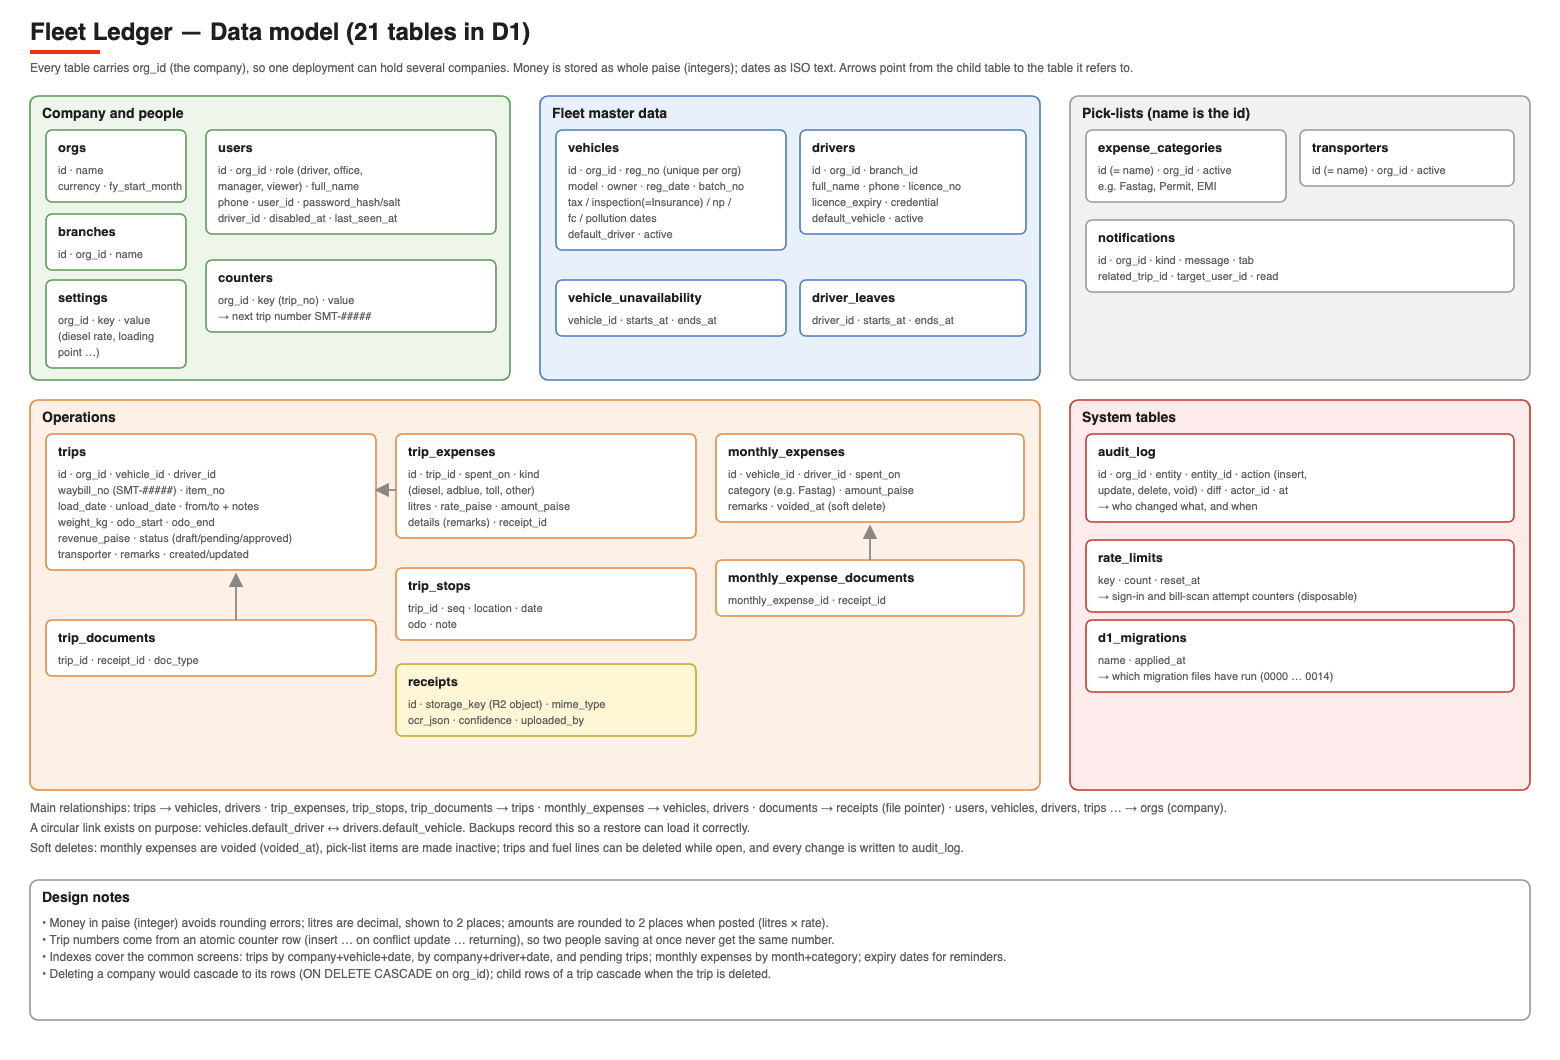
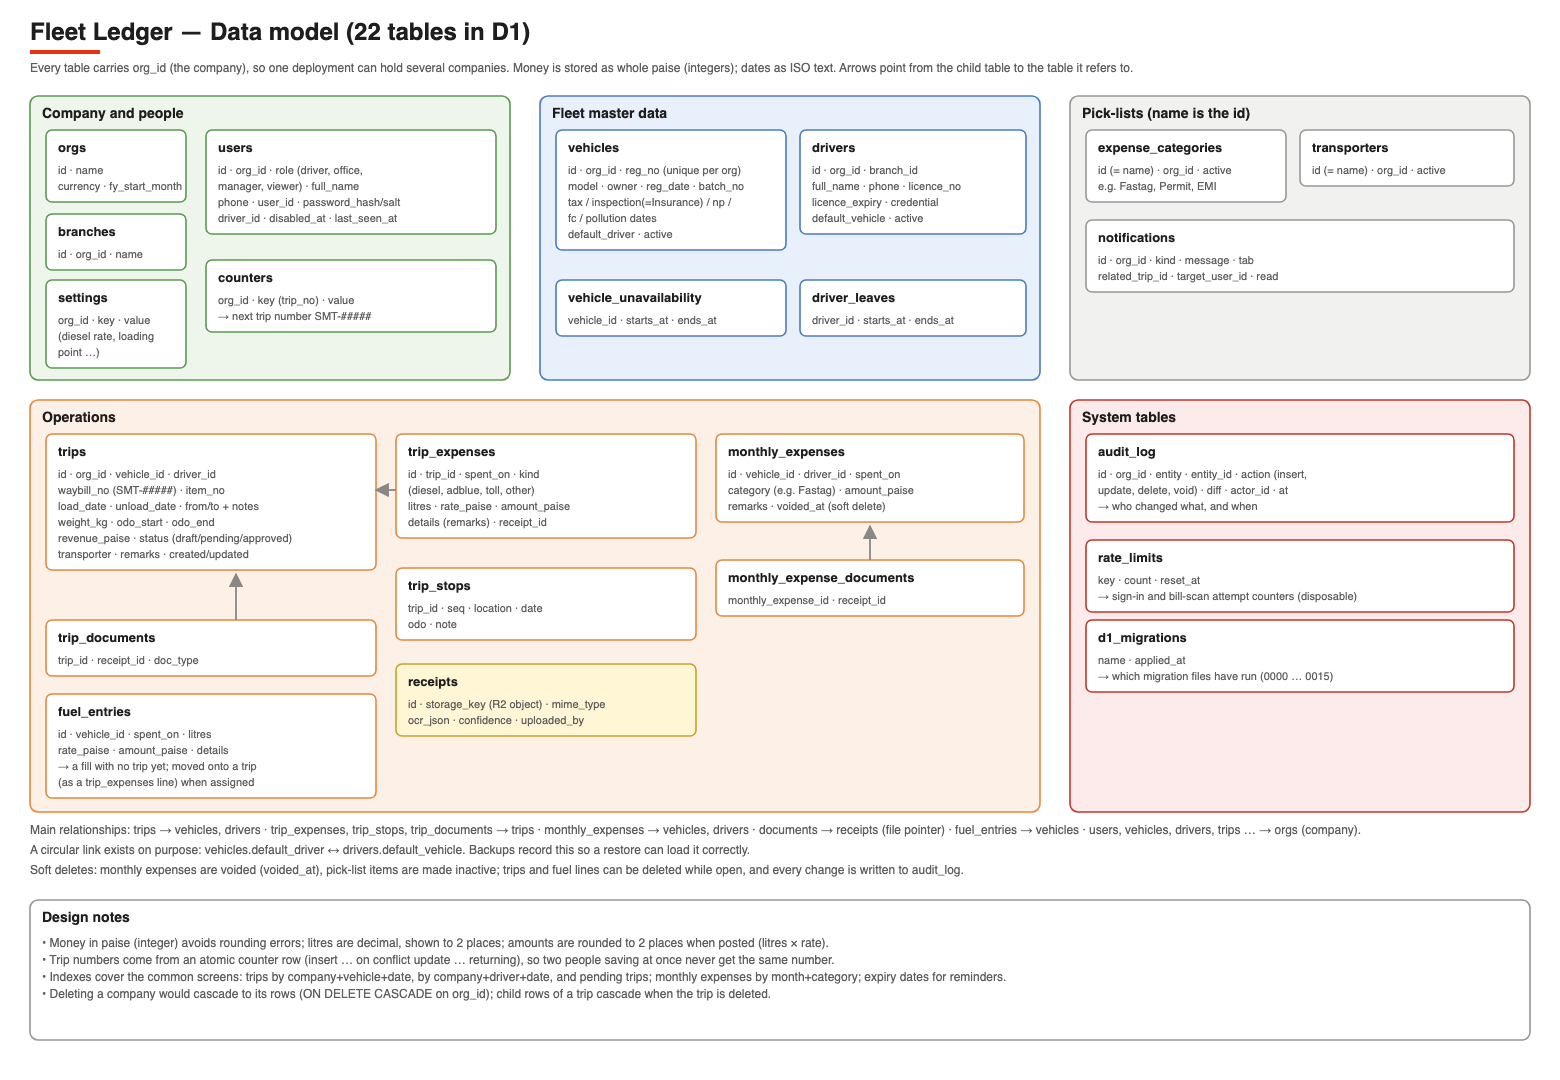
docs: diagrams — add fuel_entries (22 tables), migrations to 0015

Changed region(s): [[0.0, 0.0311, 0.9846, 0.934]]

diff --git a/docs/architecture/build_diagrams.py b/docs/architecture/build_diagrams.py
@@ -73,7 +73,7 @@ s.box(772, 176, 456, 96, F_SEC, S_SEC, 'Middleware (every request)', ['CORS allo
 s.box(772, 284, 456, 150, F_GR, S_GR, 'Routes  /v1/…', ['!auth · trips · monthly-expenses · vehicles · drivers', '!users · settings · transporters · expense-categories', '!driver-leaves · vehicle-unavailability', '!notifications · receipts (bill scan) · admin (backups)', 'org_id always taken from the token, never the request'], 13, 12, 6)
 s.box(772, 446, 220, 112, F_GR, S_GR, 'Libraries', ['!password (PBKDF2) · jwt', '!rate limiter (D1)', '!file checks (magic bytes)', '!audit log · backup job'], 13, 12, 6)
 s.box(1008, 446, 220, 112, F_SEC, S_SEC, 'Scheduled job (cron)', ['!21:00 UTC = 02:30 IST', 'Nightly backup, 30 nights', 'Cleans expired rate limits'], 13, 12, 6)
-s.box(756, 604, 236, 176, F_DB, S_DB, 'D1 database (SQLite)', ['!fleet-ledger-db · 21 tables', 'Trips, expenses, vehicles,', 'drivers, users, settings,', 'audit log, rate limits …', 'Time Travel: 7 / 30 days', 'Versioned migrations'], 13, 12, 6)
+s.box(756, 604, 236, 176, F_DB, S_DB, 'D1 database (SQLite)', ['!fleet-ledger-db · 22 tables', 'Trips, expenses, vehicles,', 'drivers, users, settings,', 'audit log, rate limits …', 'Time Travel: 7 / 30 days', 'Versioned migrations'], 13, 12, 6)
 s.box(1008, 604, 236, 176, F_DB, S_DB, 'R2 bucket', ['!fleet-ledger-docs', 'Uploaded bills & photos', '(<org>/<trip>/<file>)', 'backups/<date>/ …', 'backups/files/ (copies)'], 13, 12, 6)
 s.box(756, 800, 488, 130, '#ffffff', S_CF, 'Worker configuration', ['!Bindings: DB (D1) · DOCS (R2)', '!Secrets: JWT_SECRET · GEMINI_API_KEY (never in code or backups)', '!Variable: ALLOWED_ORIGIN (the sites allowed to call the API)', 'Static site: the web app is also served by a Cloudflare Worker', '(fleetapp) behind the domain fleet.oneuptech.co'], 13, 12, 6)
 
@@ -139,7 +139,7 @@ for i, (r, ls) in enumerate(cols):
 s.save('02-request-pipeline-security.svg')
 
 # ───────────────────────── 3. Data model ─────────────────────────
-s = Svg(1560, 1060, 'Fleet Ledger — Data model (21 tables in D1)')
+s = Svg(1560, 1080, 'Fleet Ledger — Data model (22 tables in D1)')
 s.label(30, 72, 'Every table carries org_id (the company), so one deployment can hold several companies. Money is stored as whole paise (integers); dates as ISO text. Arrows point from the child table to the table it refers to.', 12)
 
 def tbl(x, y, w, name, cols, fill=F_GR, stroke=S_GR):
@@ -171,29 +171,30 @@ tbl(1300, 130, 214, 'transporters', ['id (= name) · org_id · active'], '#fff',
 tbl(1086, 220, 428, 'notifications', ['id · org_id · kind · message · tab', 'related_trip_id · target_user_id · read'], '#fff', S_GR)
 
 # operations
-s.box(30, 400, 1010, 390, F_CF, S_CF, 'Operations', [], 14)
+s.box(30, 400, 1010, 412, F_CF, S_CF, 'Operations', [], 14)
 tbl(46, 434, 330, 'trips', ['id · org_id · vehicle_id · driver_id', 'waybill_no (SMT-#####) · item_no', 'load_date · unload_date · from/to + notes', 'weight_kg · odo_start · odo_end', 'revenue_paise · status (draft/pending/approved)', 'transporter · remarks · created/updated'], '#fff', S_CF)
 tbl(396, 434, 300, 'trip_expenses', ['id · trip_id · spent_on · kind', '   (diesel, adblue, toll, other)', 'litres · rate_paise · amount_paise', 'details (remarks) · receipt_id'], '#fff', S_CF)
 tbl(396, 568, 300, 'trip_stops', ['trip_id · seq · location · date', 'odo · note'], '#fff', S_CF)
 tbl(716, 434, 308, 'monthly_expenses', ['id · vehicle_id · driver_id · spent_on', 'category (e.g. Fastag) · amount_paise', 'remarks · voided_at (soft delete)'], '#fff', S_CF)
 tbl(46, 620, 330, 'trip_documents', ['trip_id · receipt_id · doc_type'], '#fff', S_CF)
+tbl(46, 694, 330, 'fuel_entries', ['id · vehicle_id · spent_on · litres', 'rate_paise · amount_paise · details', '→ a fill with no trip yet; moved onto a trip', '   (as a trip_expenses line) when assigned'], '#fff', S_CF)
 tbl(716, 560, 308, 'monthly_expense_documents', ['monthly_expense_id · receipt_id'], '#fff', S_CF)
 tbl(396, 664, 300, 'receipts', ['id · storage_key (R2 object) · mime_type', 'ocr_json · confidence · uploaded_by'], F_DB, S_DB)
 
 # system
-s.box(1070, 400, 460, 390, F_SEC, S_SEC, 'System tables', [], 14)
+s.box(1070, 400, 460, 412, F_SEC, S_SEC, 'System tables', [], 14)
 tbl(1086, 434, 428, 'audit_log', ['id · org_id · entity · entity_id · action (insert,', '   update, delete, void) · diff · actor_id · at', '→ who changed what, and when'], '#fff', S_SEC)
 tbl(1086, 540, 428, 'rate_limits', ['key · count · reset_at', '→ sign-in and bill-scan attempt counters (disposable)'], '#fff', S_SEC)
-tbl(1086, 620, 428, 'd1_migrations', ['name · applied_at', '→ which migration files have run (0000 … 0014)'], '#fff', S_SEC)
+tbl(1086, 620, 428, 'd1_migrations', ['name · applied_at', '→ which migration files have run (0000 … 0015)'], '#fff', S_SEC)
 
 # relations (simplified): child -> parent
 s.arrow(396, 490, 376, 490, None)
 s.arrow(236, 620, 236, 574, None)
 s.arrow(870, 560, 870, 526, None)
-s.label(30, 812, 'Main relationships: trips → vehicles, drivers · trip_expenses, trip_stops, trip_documents → trips · monthly_expenses → vehicles, drivers · documents → receipts (file pointer) · users, vehicles, drivers, trips … → orgs (company).', 12)
-s.label(30, 832, 'A circular link exists on purpose: vehicles.default_driver ↔ drivers.default_vehicle. Backups record this so a restore can load it correctly.', 12)
-s.label(30, 852, 'Soft deletes: monthly expenses are voided (voided_at), pick-list items are made inactive; trips and fuel lines can be deleted while open, and every change is written to audit_log.', 12)
-s.box(30, 880, 1500, 140, '#ffffff', S_GR, 'Design notes', [
+s.label(30, 834, 'Main relationships: trips → vehicles, drivers · trip_expenses, trip_stops, trip_documents → trips · monthly_expenses → vehicles, drivers · documents → receipts (file pointer) · fuel_entries → vehicles · users, vehicles, drivers, trips … → orgs (company).', 12)
+s.label(30, 854, 'A circular link exists on purpose: vehicles.default_driver ↔ drivers.default_vehicle. Backups record this so a restore can load it correctly.', 12)
+s.label(30, 874, 'Soft deletes: monthly expenses are voided (voided_at), pick-list items are made inactive; trips and fuel lines can be deleted while open, and every change is written to audit_log.', 12)
+s.box(30, 900, 1500, 140, '#ffffff', S_GR, 'Design notes', [
  '• Money in paise (integer) avoids rounding errors; litres are decimal, shown to 2 places; amounts are rounded to 2 places when posted (litres × rate).',
  '• Trip numbers come from an atomic counter row (insert … on conflict update … returning), so two people saving at once never get the same number.',
  '• Indexes cover the common screens: trips by company+vehicle+date, by company+driver+date, and pending trips; monthly expenses by month+category; expiry dates for reminders.',

diff --git a/docs/architecture/README.md b/docs/architecture/README.md
@@ -17,4 +17,4 @@ CH="/Applications/Google Chrome.app/Contents/MacOS/Google Chrome"
 "$CH" --headless=new --disable-gpu --hide-scrollbars --window-size=1560,980 \
   --screenshot="$PWD/01-system-architecture.png" "file://$PWD/01-system-architecture.svg"
 ```
-(window sizes: 01 = 1560x980, 02 = 1560x760, 03 = 1560x1060, 04 = 1560x920)
+(window sizes: 01 = 1560x980, 02 = 1560x760, 03 = 1560x1080, 04 = 1560x920)
